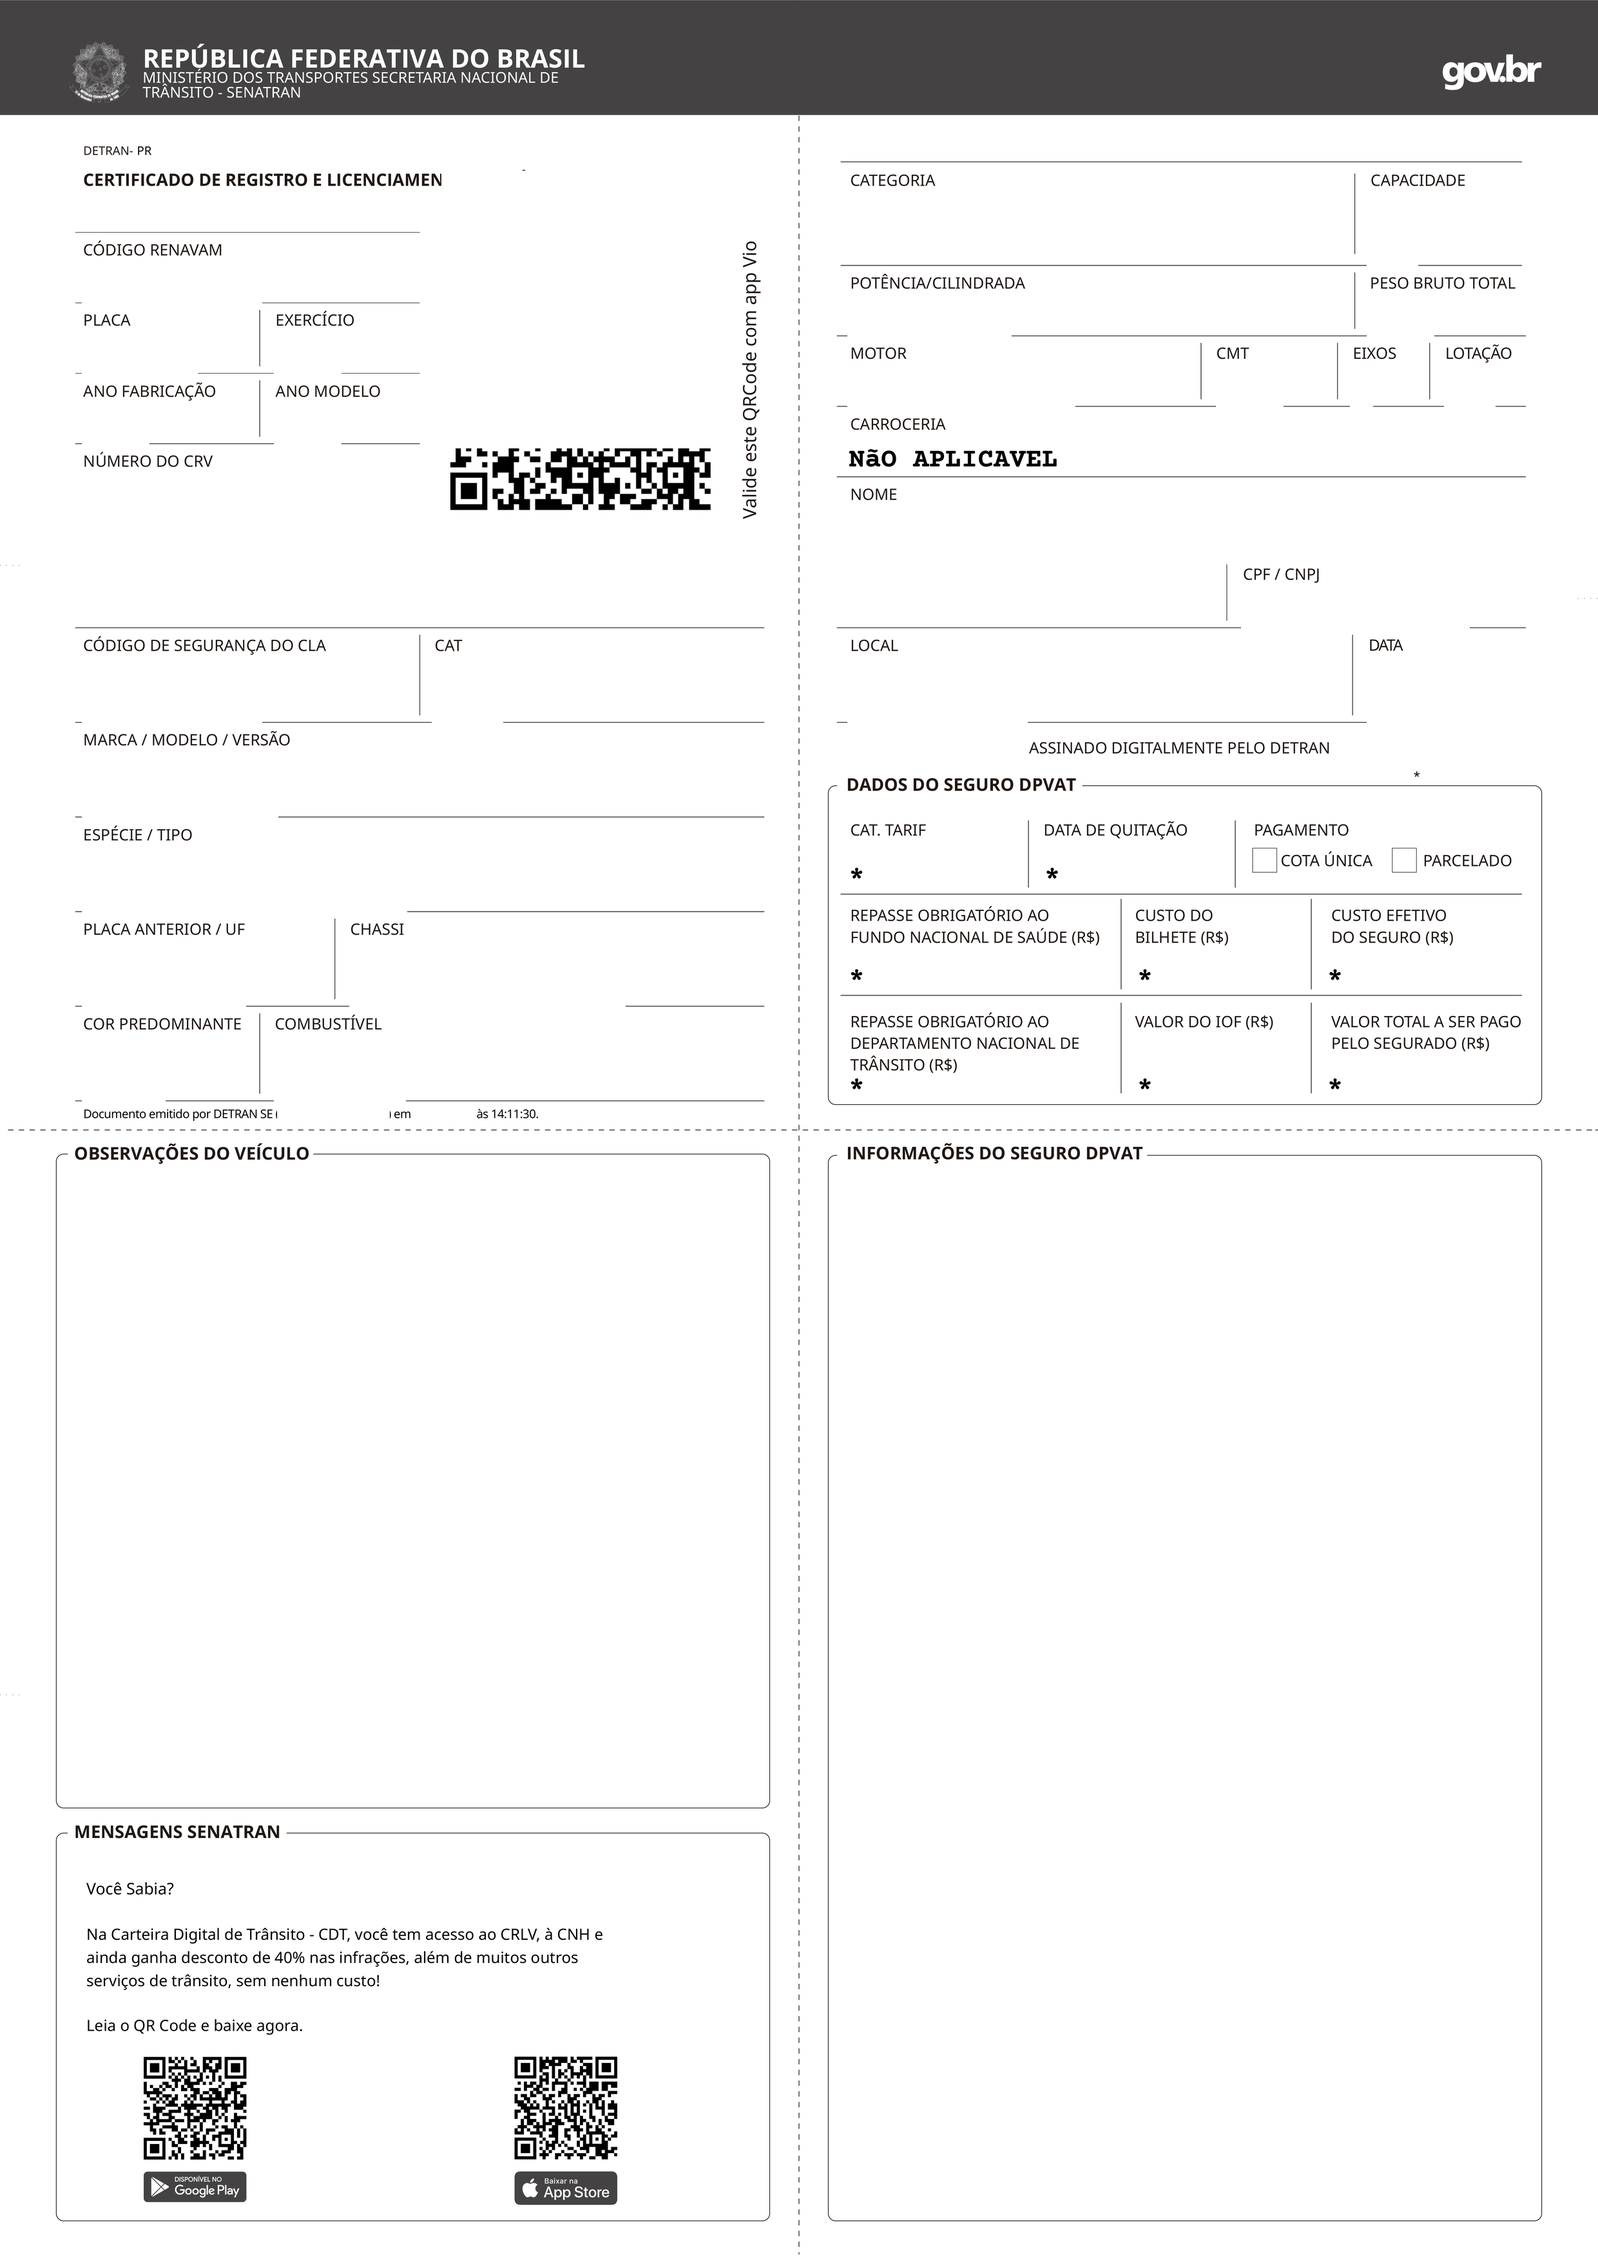
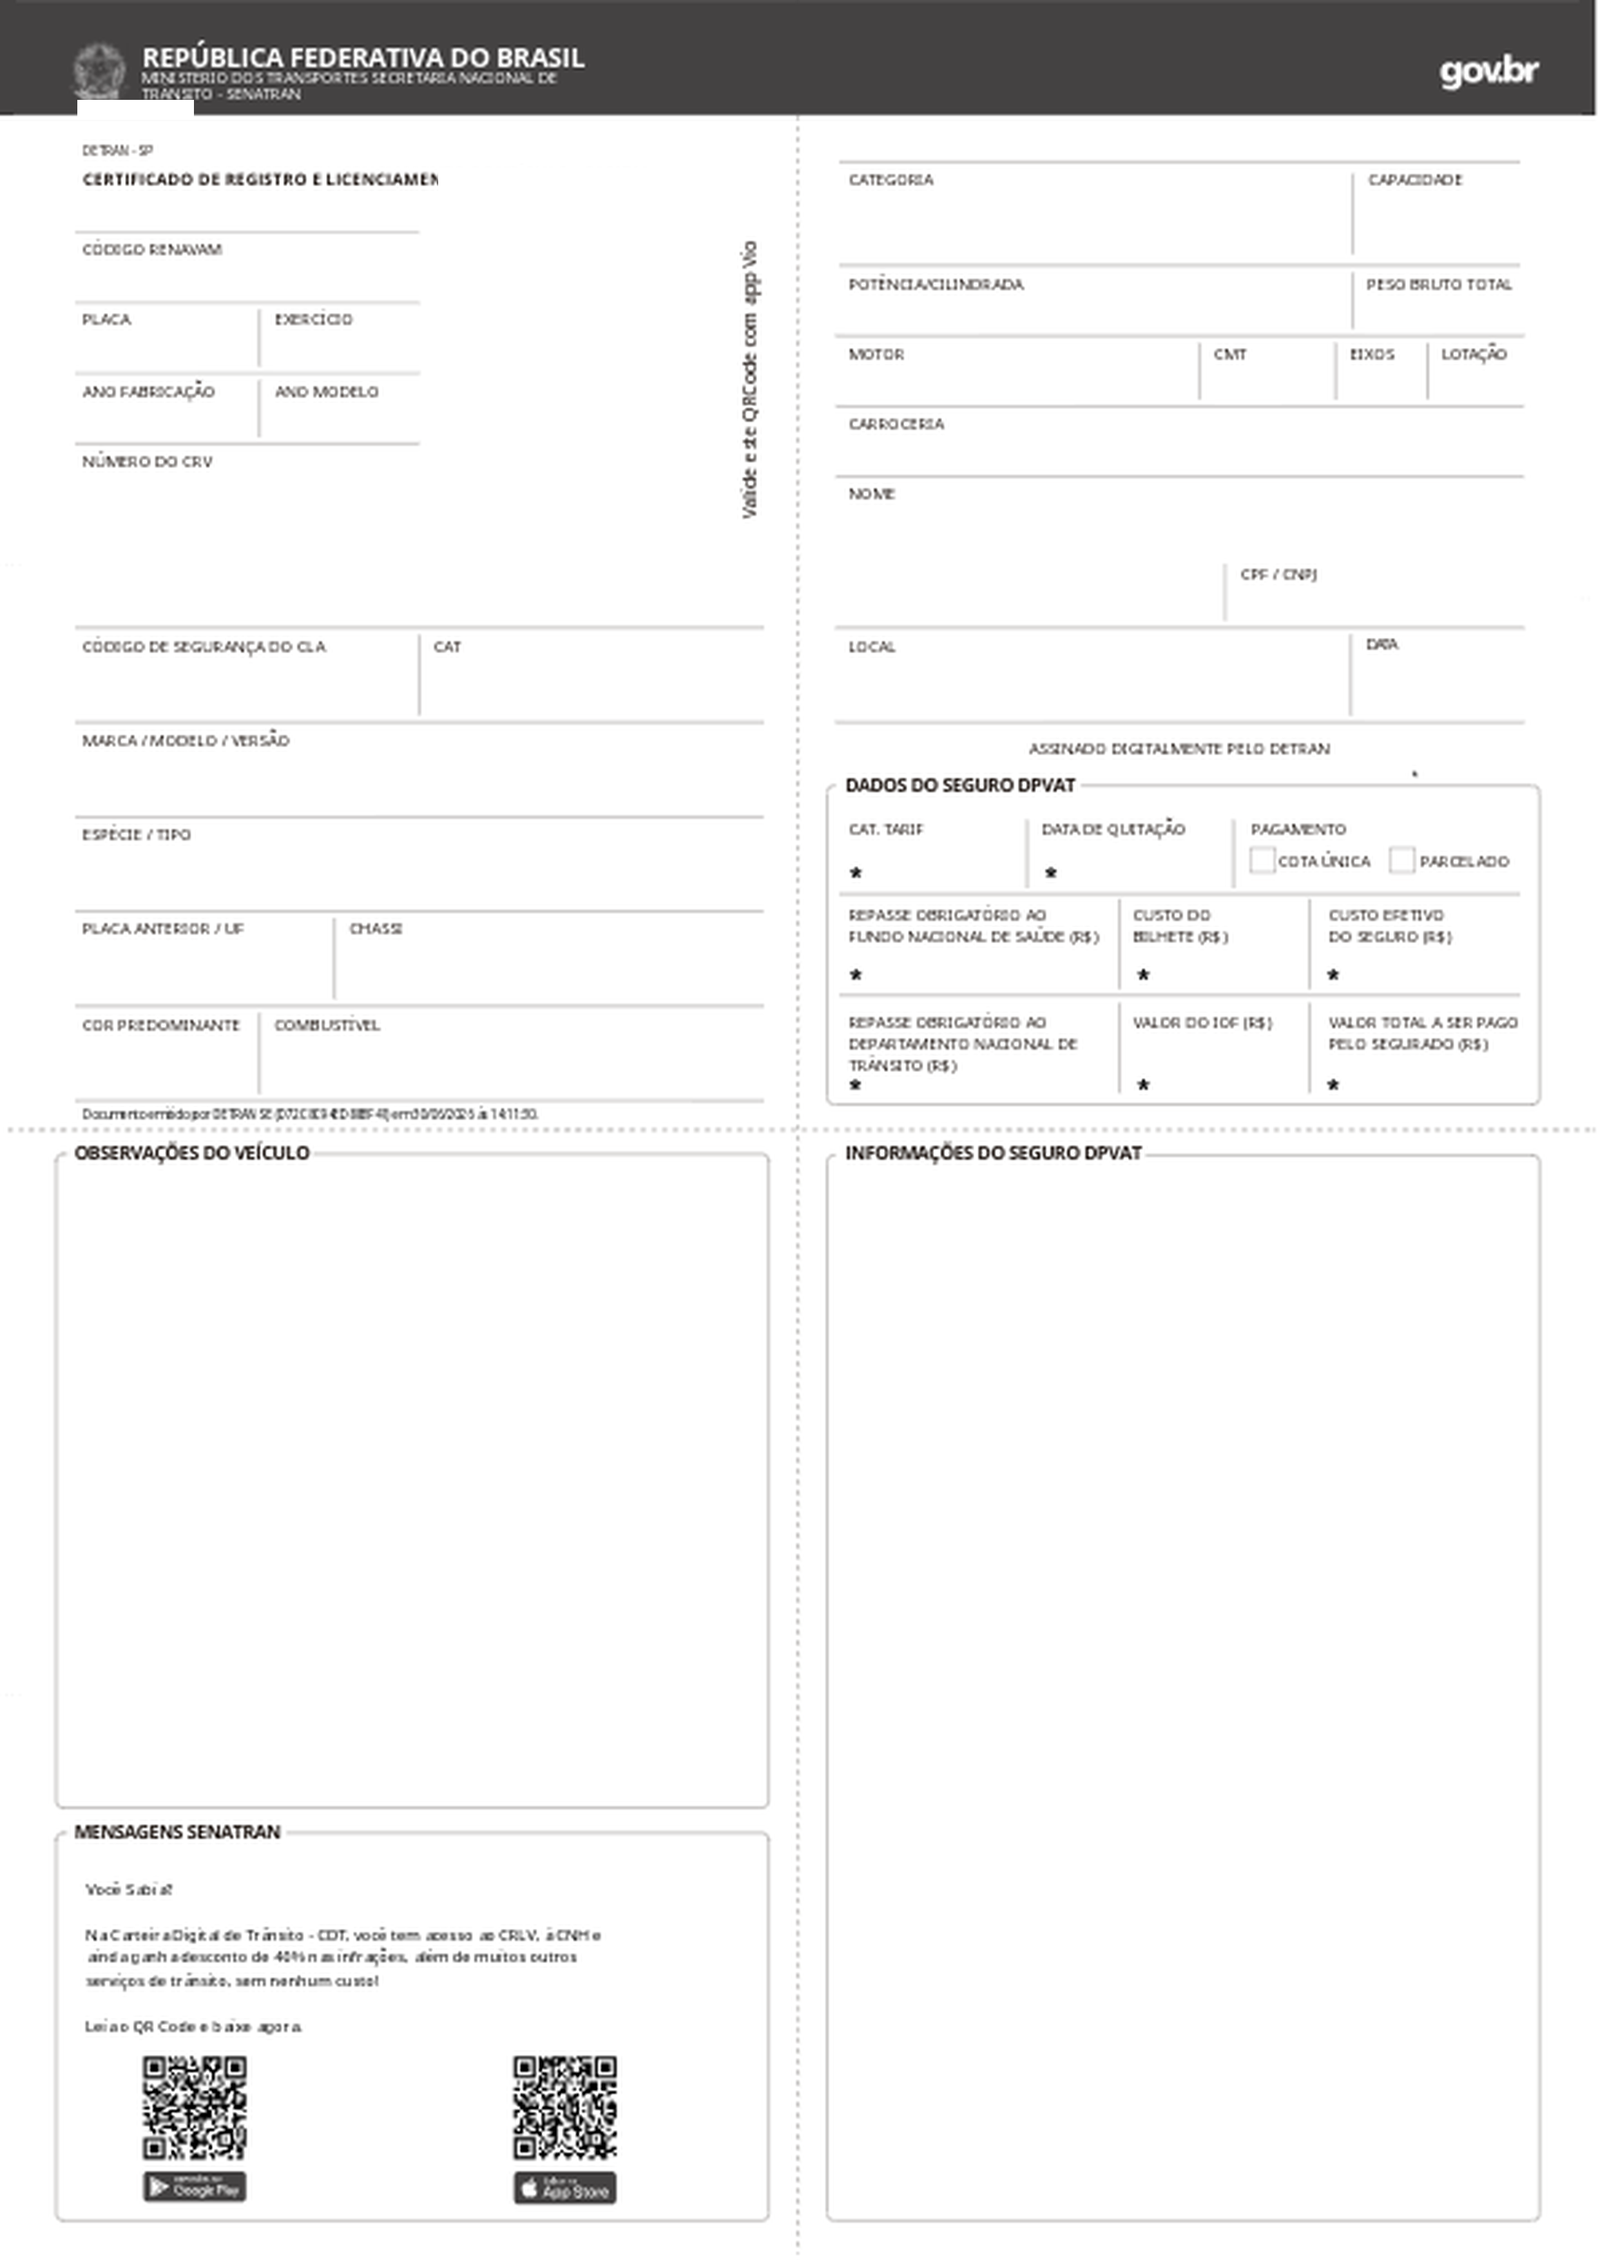
feat(crlv): utilizar a exata imagem base fornecida pelo usuario e mapear coordenadas perfeitamente

diff --git a/client/src/components/CRLVDocument.tsx b/client/src/components/CRLVDocument.tsx
@@ -1,8 +1,8 @@
 /**
- * CRLVDocument — Geração visual 1:1 baseada no PDF Oficial do SENATRAN / DETRAN (A4 @300DPI)
+ * CRLVDocument — Geração visual 1:1 baseada no Gabarito Base Oficial fornecido pelo Usuário (A4 @300DPI)
  *
- * Utiliza o modelo limpo oficial 600DPI como BACKGROUND PRINCIPAL
- * e desenha os textos dinâmicos em Courier Prime Bold nas COORDENADAS VETORIAIS EXATAS de cada célula.
+ * Utiliza o modelo limpo oficial fornecido como BACKGROUND PRINCIPAL
+ * e desenha os textos dinâmicos em Courier Prime Bold nas COORDENADAS EXATAS das células do gabarito.
  */
 import { useEffect, useRef, forwardRef, useImperativeHandle } from "react";
 import QRCode from "qrcode";
@@ -128,7 +128,7 @@ async function drawCRLVToCanvas(cvs: HTMLCanvasElement, props: CRLVDocumentProps
   ctx.fillStyle = "#FFFFFF";
   ctx.fillRect(0, 0, PAGE_W, PAGE_H);
 
-  // 2. Carregar Imagem BASE Principal Original do Template (600DPI)
+  // 2. Carregar Imagem BASE Principal enviada pelo usuário
   let bgImg: HTMLImageElement | null = null;
   try {
     bgImg = await loadImage("/assets/crlv_template_clean.png");
@@ -137,7 +137,7 @@ async function drawCRLVToCanvas(cvs: HTMLCanvasElement, props: CRLVDocumentProps
   }
 
   if (bgImg) {
-    // DESENHAR O MODELO BASE ORIGINAL COMO BACKGROUND PRINCIPAL (1:1)
+    // DESENHAR O MODELO BASE FORNECIDO PELO USUÁRIO COMO BACKGROUND PRINCIPAL (1:1)
     ctx.drawImage(bgImg, 0, 0, PAGE_W, PAGE_H);
   }
 
@@ -152,27 +152,23 @@ async function drawCRLVToCanvas(cvs: HTMLCanvasElement, props: CRLVDocumentProps
   const rightX = 1317;
   const rightW = PAGE_W - marginX - rightX;
 
-  // ─── SOBREPOSIÇÃO NAS COORDENADAS EXATAS DO PDF (Courier Prime Bold) ─────────
+  // ─── SOBREPOSIÇÃO NAS COORDENADAS EXATAS DA BASE DO USUÁRIO ───────────────────
 
-  // 1. DETRAN - UF (Se alterado pelo usuário)
+  // 1. DETRAN - UF (Desenhado na barra superior)
   const detranUf = (props.detranUF || props.emissaoDetranUF || "PR").toUpperCase();
-  if (detranUf !== "PR") {
-    ctx.fillStyle = "#FFFFFF";
-    ctx.fillRect(200, 220, 60, 24);
-    ctx.fillStyle = "#000000";
-    ctx.font = `bold 18px ${FONT_LBL}`;
-    ctx.fillText(detranUf, 200, 240);
-  }
+  ctx.fillStyle = "#000000";
+  ctx.font = `bold 18px ${FONT_LBL}`;
+  ctx.fillText(`DETRAN- ${detranUf}`, marginX, 175);
 
-  // 2. CÓDIGO RENAVAM (Rótulo Y=405 | Valor Y=471)
+  // 2. CÓDIGO RENAVAM (Rótulo Y=270 | Valor Y=305)
   ctx.fillStyle = "#000000";
   ctx.font = `bold 42px ${FONT_VAL}`;
-  ctx.fillText(props.renavam || "00278581161", marginX, 471);
+  ctx.fillText(props.renavam || "00278581161", marginX, 305);
 
-  // 3. QR CODE PRINCIPAL DO DOCUMENTO (Coordenadas exatas do gabarito)
-  const qrSize = 425;
-  const qrX = 690;
-  const qrY = 265;
+  // 3. QR CODE PRINCIPAL DO DOCUMENTO (Coordenadas do gabarito)
+  const qrSize = 420;
+  const qrX = 700;
+  const qrY = 270;
 
   const crlvBaseUrl = "https://consulta-vio-crlv.pages.dev";
   const qrVal = props.codigoQR && props.codigoQR !== "PREVIEW"
@@ -188,91 +184,91 @@ async function drawCRLVToCanvas(cvs: HTMLCanvasElement, props: CRLVDocumentProps
     ctx.strokeRect(qrX, qrY, qrSize, qrSize);
   }
 
-  // 4. PLACA (Rótulo Y=515 | Valor Y=580) & EXERCÍCIO (Valor Y=580)
+  // 4. PLACA (Rótulo Y=405 | Valor Y=440) & EXERCÍCIO (Valor Y=440)
   ctx.font = `bold 40px ${FONT_VAL}`;
-  ctx.fillText((props.placa || "MPK5502").toUpperCase(), marginX, 580);
-  ctx.fillText(props.exercicio || "2026", 427, 580);
+  ctx.fillText((props.placa || "MPK5502").toUpperCase(), marginX, 440);
+  ctx.fillText(props.exercicio || "2026", 427, 440);
 
-  // 5. ANO FABRICAÇÃO (Rótulo Y=625 | Valor Y=689) & ANO MODELO (Valor Y=689)
+  // 5. ANO FABRICAÇÃO (Rótulo Y=515 | Valor Y=550) & ANO MODELO (Valor Y=550)
   ctx.font = `bold 40px ${FONT_VAL}`;
-  ctx.fillText(props.anoFabricacao || "1993", marginX, 689);
-  ctx.fillText(props.anoModelo || "1993", 427, 689);
+  ctx.fillText(props.anoFabricacao || "1993", marginX, 550);
+  ctx.fillText(props.anoModelo || "1993", 427, 550);
 
-  // 6. NÚMERO DO CRV (Rótulo Y=733 | Valor Y=798)
+  // 6. NÚMERO DO CRV (Rótulo Y=625 | Valor Y=660)
   ctx.font = `bold 40px ${FONT_VAL}`;
-  ctx.fillText(props.numeroCRV || "***", marginX, 798);
+  ctx.fillText(props.numeroCRV || "***", marginX, 660);
 
-  // 7. CÓDIGO DE SEGURANÇA DO CLA (Rótulo Y=1019 | Valor Y=1122) & CAT (Valor Y=1122)
+  // 7. CÓDIGO DE SEGURANÇA DO CLA (Rótulo Y=735 | Valor Y=770) & CAT (Valor Y=770)
   ctx.font = `bold 38px ${FONT_VAL}`;
-  ctx.fillText(props.codigoSegurancaCLA || "66545815734", marginX, 1122);
-  ctx.fillText(props.cat || "***", 676, 1122);
+  ctx.fillText(props.codigoSegurancaCLA || "66545815734", marginX, 770);
+  ctx.fillText(props.cat || "***", 676, 770);
 
-  // 8. MARCA / MODELO / VERSÃO (Rótulo Y=1166 | Valor Y=1269)
-  drawClippedText(ctx, (props.marcaModeloVersao || "GM/OMEGA GLS").toUpperCase(), marginX, 1269, leftW, 38, true, FONT_VAL);
+  // 8. MARCA / MODELO / VERSÃO (Rótulo Y=835 | Valor Y=875)
+  drawClippedText(ctx, (props.marcaModeloVersao || "GM/OMEGA GLS").toUpperCase(), marginX, 875, leftW, 38, true, FONT_VAL);
 
-  // 9. ESPÉCIE / TIPO (Rótulo Y=1314 | Valor Y=1415)
-  drawClippedText(ctx, (props.especieTipo || "PASSAGEIRO AUTOMOVEL").toUpperCase(), marginX, 1415, leftW, 38, true, FONT_VAL);
+  // 9. ESPÉCIE / TIPO (Rótulo Y=940 | Valor Y=980)
+  drawClippedText(ctx, (props.especieTipo || "PASSAGEIRO AUTOMOVEL").toUpperCase(), marginX, 980, leftW, 38, true, FONT_VAL);
 
-  // 10. PLACA ANTERIOR / UF (Rótulo Y=1460 | Valor Y=1562) & CHASSI (Valor Y=1562)
+  // 10. PLACA ANTERIOR / UF (Rótulo Y=1045 | Valor Y=1085) & CHASSI (Valor Y=1085)
   ctx.font = `bold 36px ${FONT_VAL}`;
-  ctx.fillText((props.placaAnteriorUF || "*******/**").toUpperCase(), marginX, 1562);
-  drawClippedText(ctx, (props.chassi || "9BGVP19BPPB233276").toUpperCase(), 544, 1562, leftW - 420, 36, true, FONT_VAL);
+  ctx.fillText((props.placaAnteriorUF || "*******/**").toUpperCase(), marginX, 1085);
+  drawClippedText(ctx, (props.chassi || "9BGVP19BPPB233276").toUpperCase(), 544, 1085, leftW - 420, 36, true, FONT_VAL);
 
-  // 11. COR PREDOMINANTE (Rótulo Y=1607 | Valor Y=1709) & COMBUSTÍVEL (Valor Y=1709)
+  // 11. COR PREDOMINANTE (Rótulo Y=1150 | Valor Y=1190) & COMBUSTÍVEL (Valor Y=1190)
   ctx.font = `bold 38px ${FONT_VAL}`;
-  ctx.fillText((props.corPredominante || "PRETA").toUpperCase(), marginX, 1709);
-  ctx.fillText((props.combustivel || "GASOLINA").toUpperCase(), 427, 1709);
+  ctx.fillText((props.corPredominante || "PRETA").toUpperCase(), marginX, 1190);
+  ctx.fillText((props.combustivel || "GASOLINA").toUpperCase(), 427, 1190);
 
-  // 12. RODAPÉ DE EMISSÃO DETRAN (Y=1742)
+  // 12. RODAPÉ DE EMISSÃO DETRAN (Y=1260)
   const ufEmi = (props.emissaoDetranUF || props.detranUF || "SE").toUpperCase();
   const hashEmi = props.emissaoDetranHash || "D72C8C94ED88BF41";
   const dataEmiStr = props.emissaoDataHora || "30/06/2026 às 14:11:30";
   ctx.font = `15px ${FONT_LBL}`;
   ctx.fillStyle = "#333333";
-  ctx.fillText(`Documento emitido por DETRAN ${ufEmi} (${hashEmi}) em ${dataEmiStr}.`, marginX, 1742);
+  ctx.fillText(`Documento emitido por DETRAN ${ufEmi} (${hashEmi}) em ${dataEmiStr}.`, marginX, 1260);
 
-  // 13. OBSERVAÇÕES DO VEÍCULO (Rótulo Y=1808 | Valor Y=1893 - DENTRO DA CAIXA)
+  // 13. OBSERVAÇÕES DO VEÍCULO (Dentro da caixa arredondada Y=1320 a 2420)
   ctx.font = `bold 34px ${FONT_VAL}`;
   ctx.fillStyle = "#000000";
-  ctx.fillText(props.observacoesVeiculo || "SEM OBSERVAÇÕES", marginX, 1893);
+  ctx.fillText(props.observacoesVeiculo || "SEM OBSERVAÇÕES", marginX + 30, 1420);
 
   // ─── COLUNA DIREITA (ESPECIFICAÇÕES & PROPRIETÁRIO) ─────────────────────
 
-  // 14. CATEGORIA (Rótulo Y=298 | Valor Y=351) & CAPACIDADE (Valor Y=412)
+  // 14. CATEGORIA (Rótulo Y=270 | Valor Y=305) & CAPACIDADE (Valor Y=305)
   ctx.font = `bold 40px ${FONT_VAL}`;
-  ctx.fillText((props.categoria || "PARTICULAR").toUpperCase(), rightX, 351);
-  ctx.fillText(props.capacidade || "*.*", 2123, 412);
+  ctx.fillText((props.categoria || "PARTICULAR").toUpperCase(), rightX, 305);
+  ctx.fillText(props.capacidade || "*.*", 2123, 305);
 
-  // 15. POTÊNCIA/CILINDRADA (Rótulo Y=457 | Valor Y=522) & PESO BRUTO TOTAL (Valor Y=522)
+  // 15. POTÊNCIA/CILINDRADA (Rótulo Y=375 | Valor Y=410) & PESO BRUTO TOTAL (Valor Y=410)
   ctx.font = `bold 38px ${FONT_VAL}`;
-  ctx.fillText((props.potenciaCilindrada || "116CV/2198").toUpperCase(), rightX, 522);
-  ctx.fillText(props.pesoBrutoTotal || "1.29", 2123, 522);
+  ctx.fillText((props.potenciaCilindrada || "116CV/2198").toUpperCase(), rightX, 410);
+  ctx.fillText(props.pesoBrutoTotal || "1.29", 2123, 410);
 
-  // 16. MOTOR (Rótulo Y=566 | Valor Y=631), CMT (Y=631), EIXOS (Y=631), LOTAÇÃO (Y=631)
+  // 16. MOTOR (Rótulo Y=480 | Valor Y=515), CMT (Y=515), EIXOS (Y=515), LOTAÇÃO (Y=515)
   ctx.font = `bold 36px ${FONT_VAL}`;
-  drawClippedText(ctx, (props.motor || "C20NE31022309V").toUpperCase(), rightX, 631, 520, 36, true, FONT_VAL);
-  ctx.fillText(props.cmt || "3.05", 1889, 631);
-  ctx.fillText(props.eixos || "2", 2101, 631);
-  ctx.fillText(props.lotacao || "05P", 2242, 631);
+  drawClippedText(ctx, (props.motor || "C20NE31022309V").toUpperCase(), rightX, 515, 520, 36, true, FONT_VAL);
+  ctx.fillText(props.cmt || "3.05", 1889, 515);
+  ctx.fillText(props.eixos || "2", 2101, 515);
+  ctx.fillText(props.lotacao || "05P", 2242, 515);
 
-  // 17. CARROCERIA (Rótulo Y=675 | Valor Y=740)
+  // 17. CARROCERIA (Rótulo Y=585 | Valor Y=620)
   ctx.font = `bold 38px ${FONT_VAL}`;
-  ctx.fillText((props.carroceria || "NÃO APLICAVEL").toUpperCase(), rightX, 740);
+  ctx.fillText((props.carroceria || "NÃO APLICAVEL").toUpperCase(), rightX, 620);
 
-  // 18. NOME DO PROPRIETÁRIO (Rótulo Y=785 | Valor Y=843)
-  drawClippedText(ctx, (props.nome || "ANTONIO CAMILO ALMEIDA FREITAS JUNIOR").toUpperCase(), rightX, 843, rightW, 38, true, FONT_VAL);
+  // 18. NOME DO PROPRIETÁRIO (Rótulo Y=690 | Valor Y=730)
+  drawClippedText(ctx, (props.nome || "ANTONIO CAMILO ALMEIDA FREITAS JUNIOR").toUpperCase(), rightX, 730, rightW, 38, true, FONT_VAL);
 
-  // 19. CPF / CNPJ (Rótulo Y=909 | Valor Y=974)
+  // 19. CPF / CNPJ (Rótulo Y=800 | Valor Y=840)
   ctx.font = `bold 38px ${FONT_VAL}`;
-  ctx.fillText(props.cpfCnpj || "042.512.909-84", 1928, 974);
+  ctx.fillText(props.cpfCnpj || "042.512.909-84", 1928, 840);
 
-  // 20. LOCAL (Rótulo Y=1019 | Valor Y=1122) & DATA (Valor Y=1122)
-  drawClippedText(ctx, (props.local || "CURITIBA PR").toUpperCase(), rightX, 1122, 700, 38, true, FONT_VAL);
+  // 20. LOCAL (Rótulo Y=910 | Valor Y=950) & DATA (Valor Y=950)
+  drawClippedText(ctx, (props.local || "CURITIBA PR").toUpperCase(), rightX, 950, 700, 38, true, FONT_VAL);
   ctx.font = `bold 38px ${FONT_VAL}`;
-  ctx.fillText(props.dataEmissaoDoc || "21/01/2026", 2123, 1122);
+  ctx.fillText(props.dataEmissaoDoc || "21/01/2026", 2123, 950);
 
   // 21. DPVAT VALORES (Se preenchidos diferentemente de *)
-  const dpvatY = 1200;
+  const dpvatY = 1060;
   if (props.dpvatCatTarif && props.dpvatCatTarif !== "*") {
     ctx.font = `bold 24px ${FONT_VAL}`;
     ctx.fillText(props.dpvatCatTarif, rightX + 20, dpvatY + 85);
@@ -292,7 +288,7 @@ async function drawCRLVToCanvas(cvs: HTMLCanvasElement, props: CRLVDocumentProps
   }
 
   // 22. INFORMAÇÕES DO SEGURO DPVAT (Linhas adicionais)
-  const infY = 1800;
+  const infY = 1520;
   if (props.informacoesDpvat) {
     ctx.font = `24px ${FONT_VAL}`;
     ctx.fillStyle = "#000000";

diff --git a/dist/index.html b/dist/index.html
@@ -45,7 +45,7 @@
     <link href="https://fonts.googleapis.com/css2?family=Courier+Prime:wght@400;700&family=Rawline:wght@300;400;600;700&family=Raleway:wght@400;600;700&family=Roboto:wght@400;500;700&family=Open+Sans:wght@400;600;700&display=swap" rel="stylesheet">
     <link rel="stylesheet" href="https://cdnjs.cloudflare.com/ajax/libs/font-awesome/6.4.2/css/all.min.css">
     <title>DocMaster Store</title>
-    <script type="module" crossorigin src="/assets/index-C8VLcf4F.js"></script>
+    <script type="module" crossorigin src="/assets/index-BOHPYwyu.js"></script>
     <link rel="modulepreload" crossorigin href="/assets/vendor-irdeXPrH.js">
     <link rel="modulepreload" crossorigin href="/assets/vendor-pdf-B6ckfRap.js">
     <link rel="stylesheet" crossorigin href="/assets/index-Dd3UzWBm.css">
